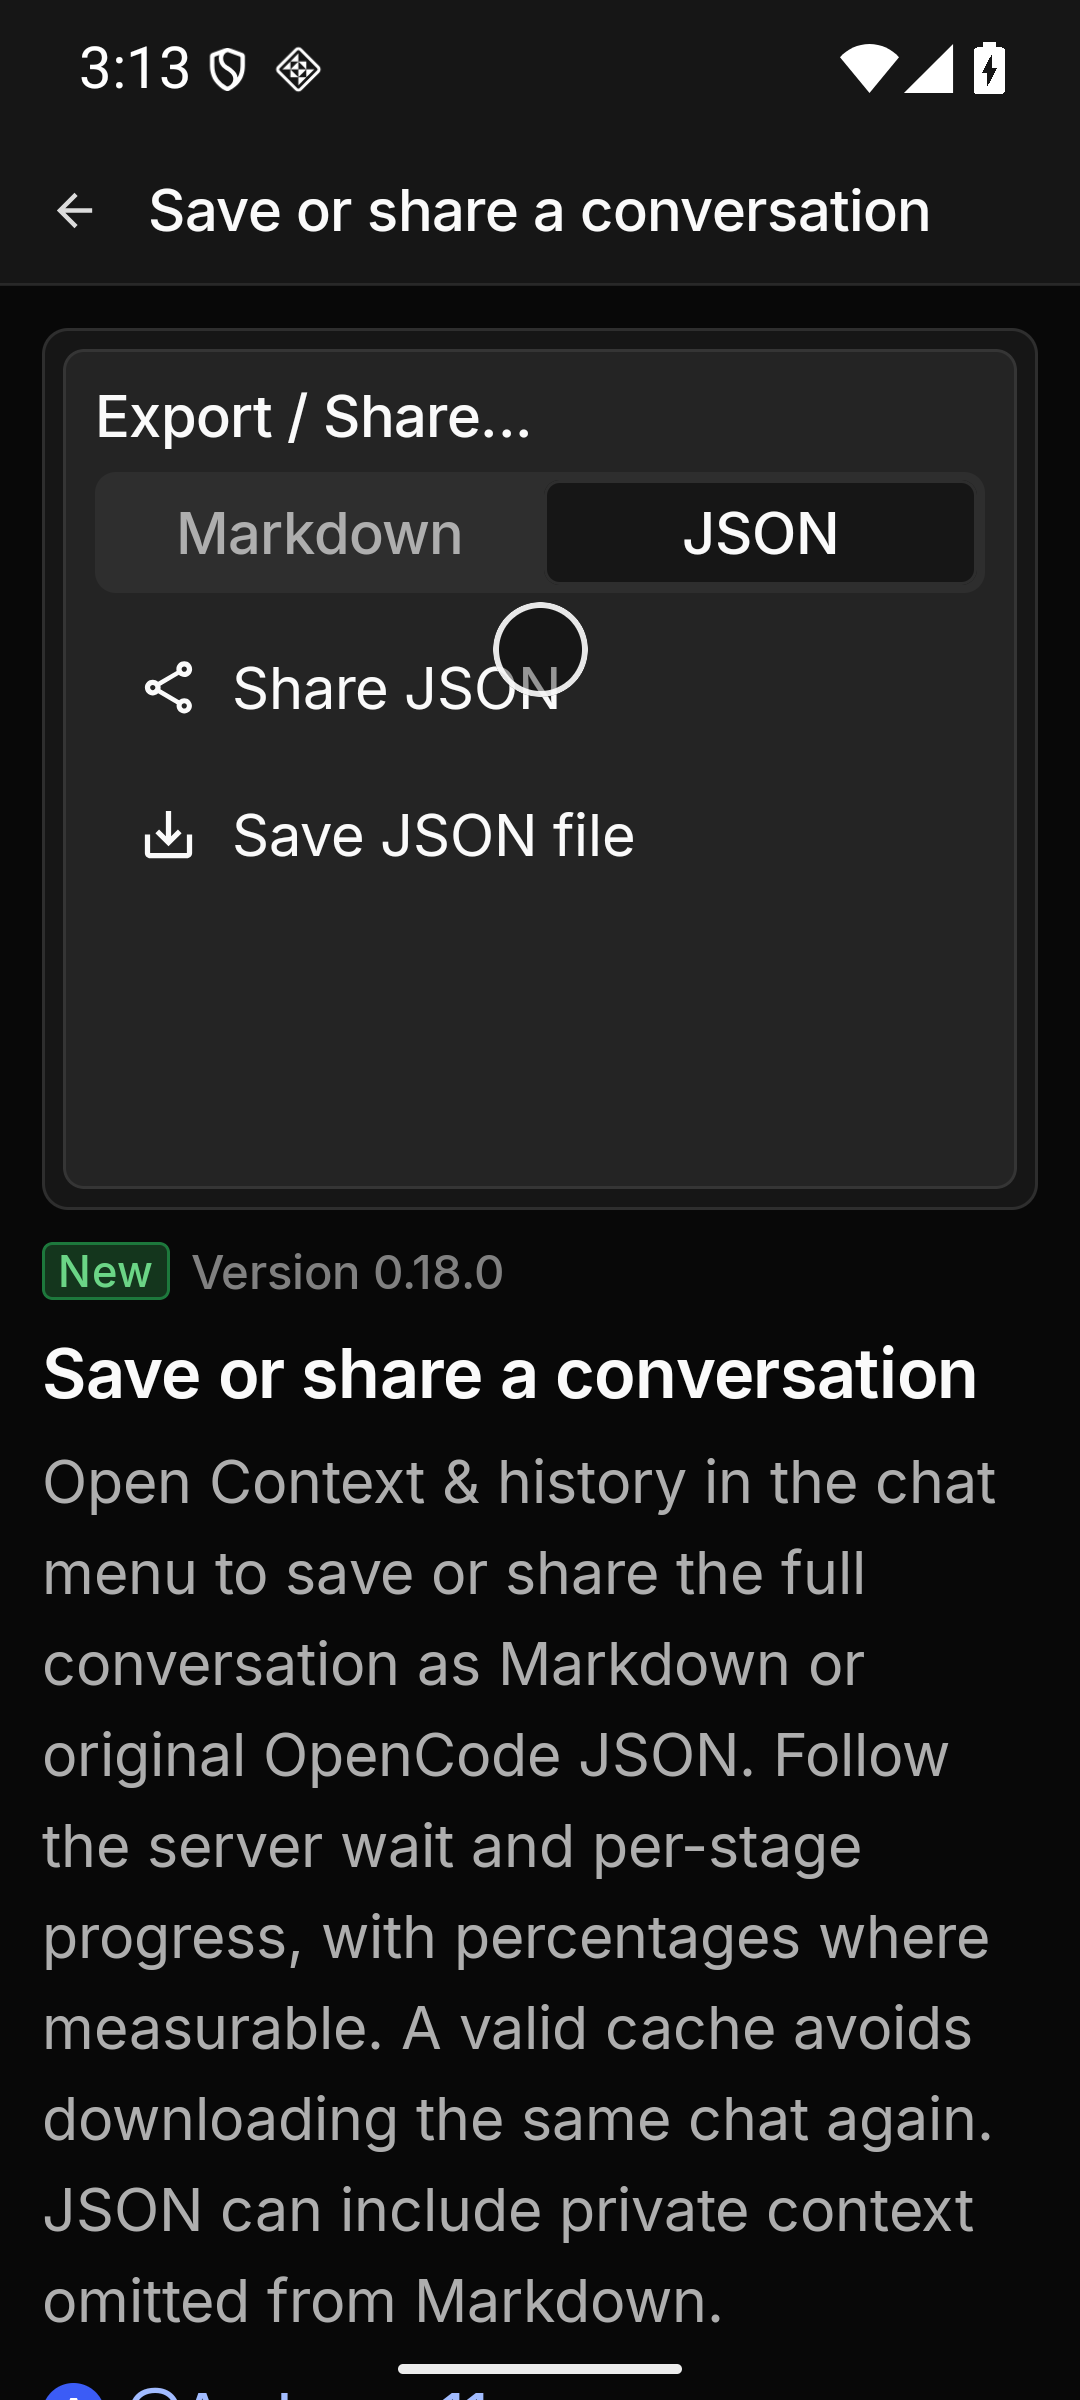
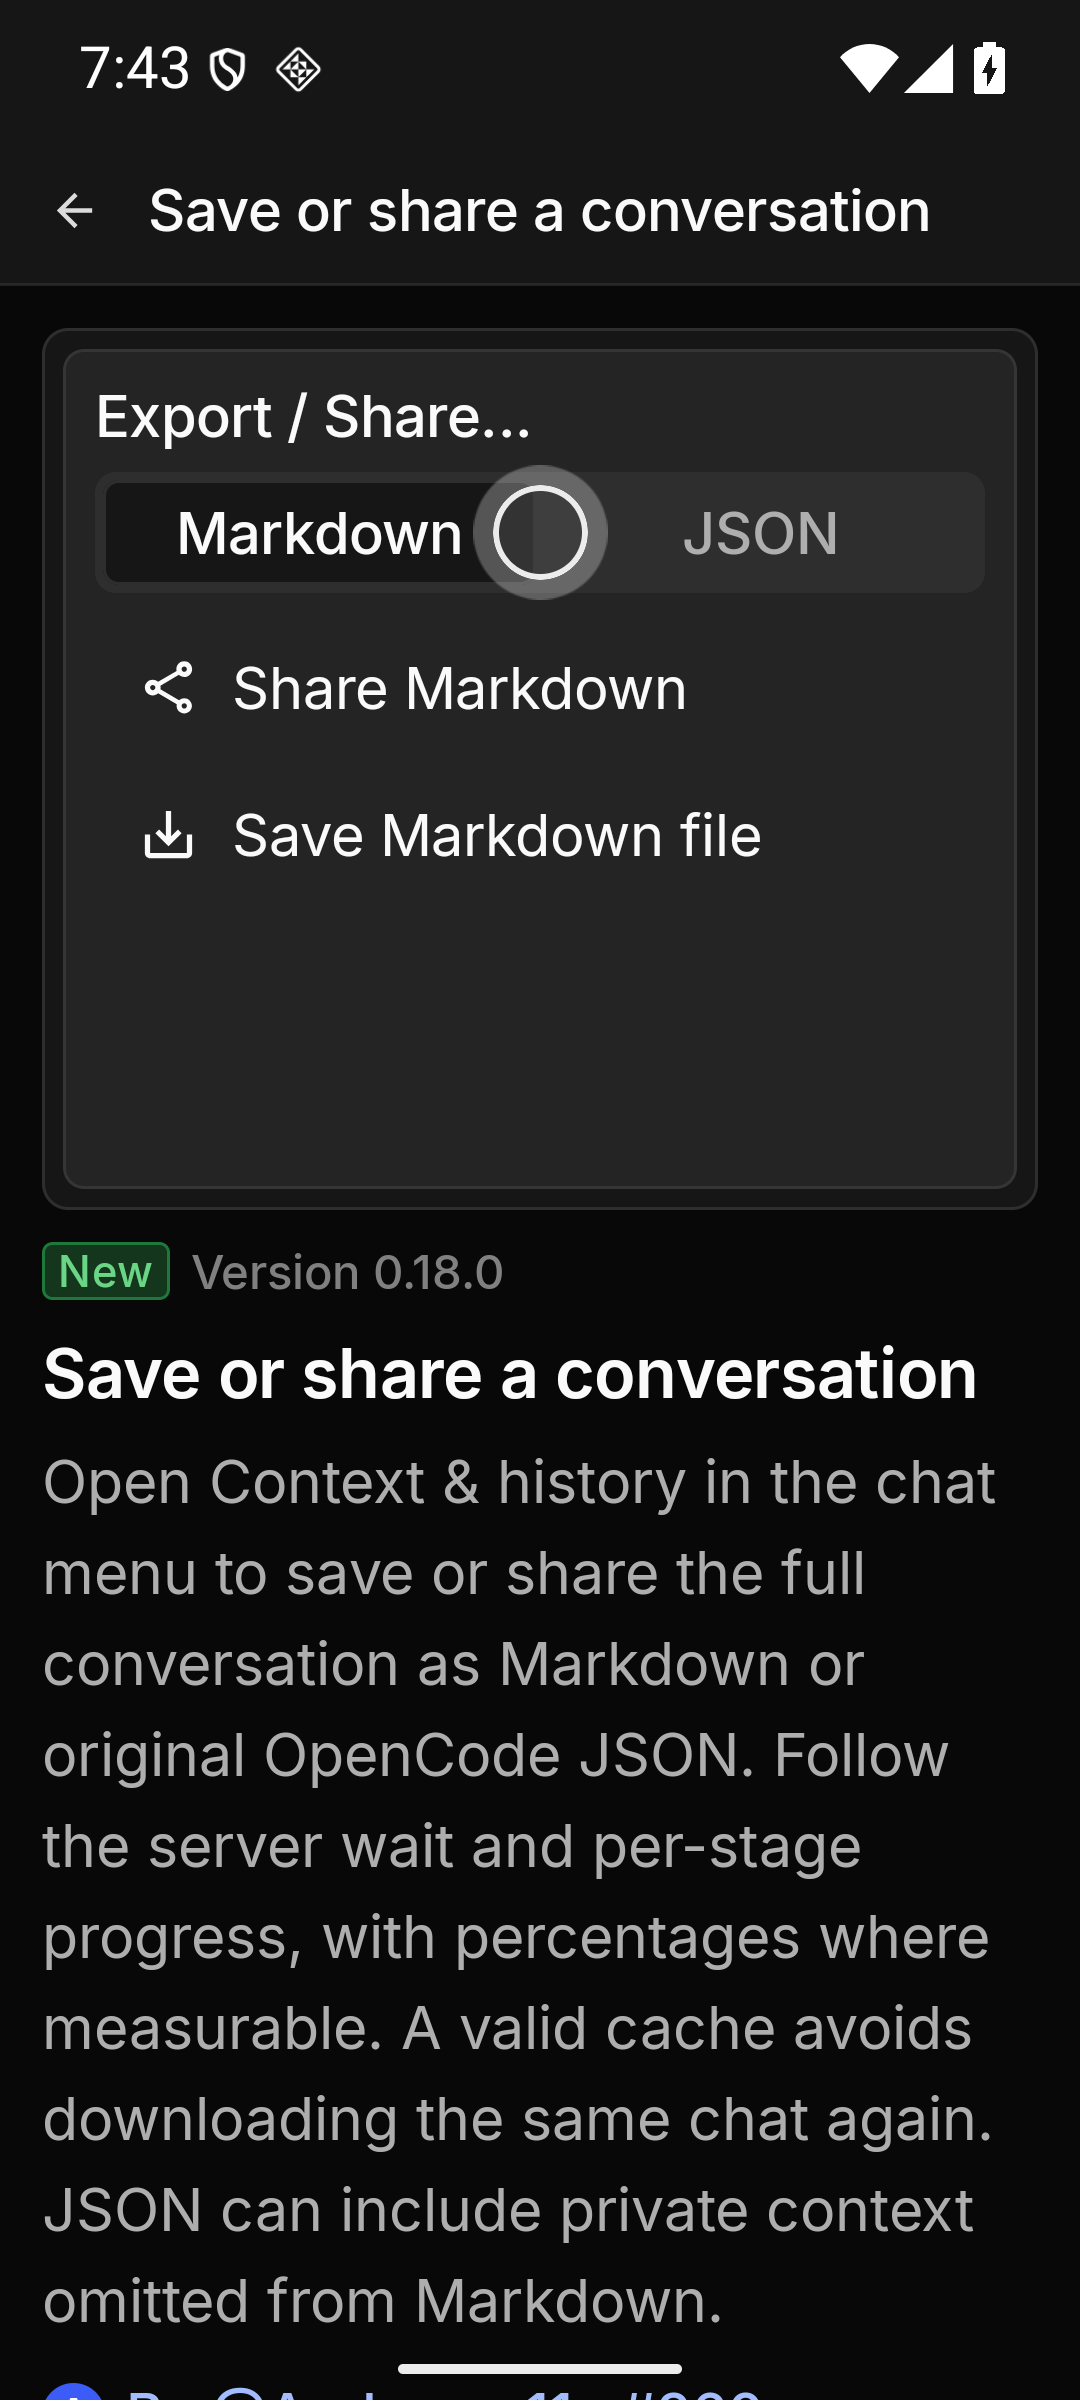
docs(settings): Link the session export demo to PR #260

diff --git a/android/feature/settings/src/commonMain/kotlin/io/github/beppe2880/opencodemobile/feature/settings/whatsnew/cards/TipsCardsC.kt b/android/feature/settings/src/commonMain/kotlin/io/github/beppe2880/opencodemobile/feature/settings/whatsnew/cards/TipsCardsC.kt
@@ -73,7 +73,7 @@ internal val tipsCardsC: List<FeatureCard> = listOf(
         body = Res.string.tips_export_body,
         demoDescription = Res.string.tips_export_demo,
         author = "Andrease11",
-        pullRequest = null, // Fill when the export PR is opened.
+        pullRequest = 260,
         demo = { TranscriptExportDemo(it) },
     ),
     FeatureCard(
